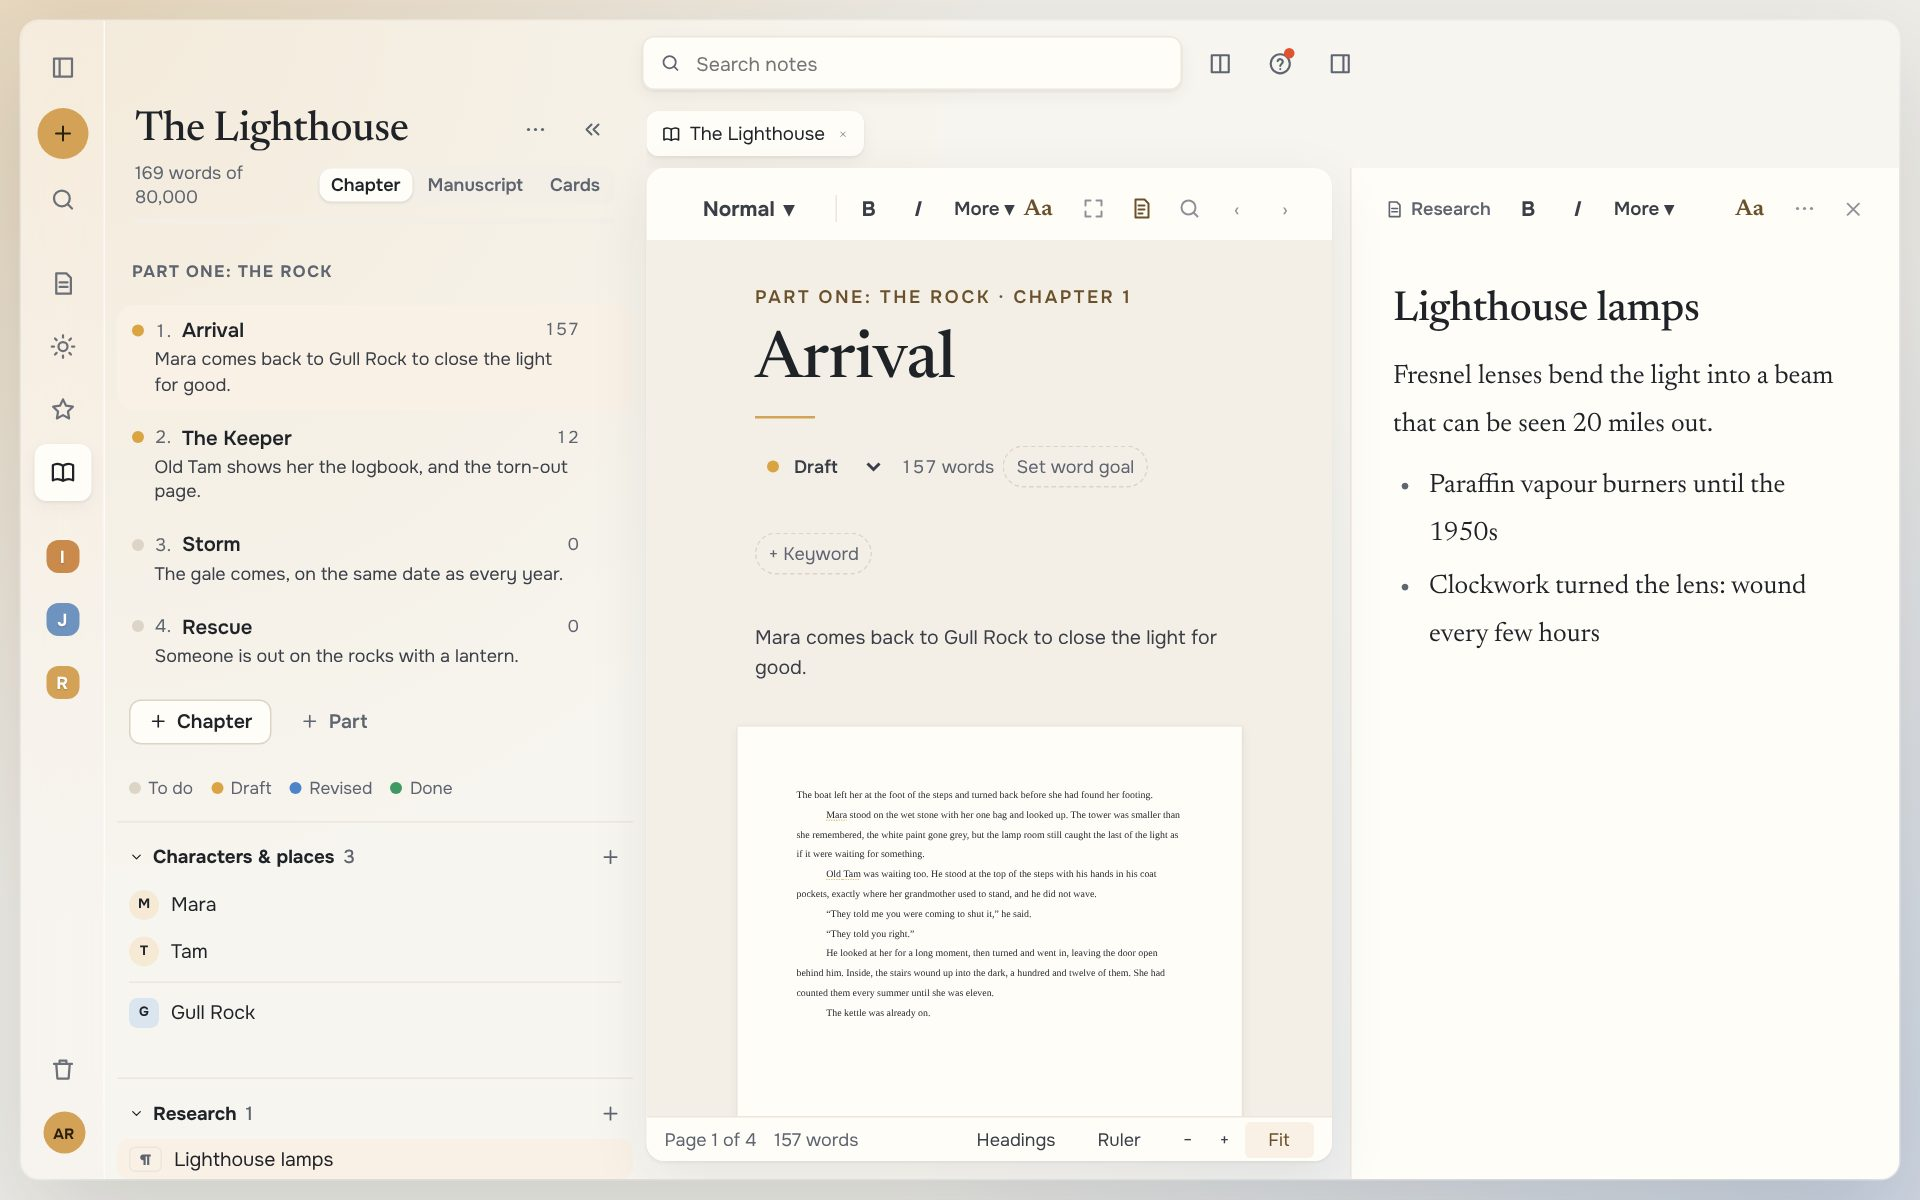
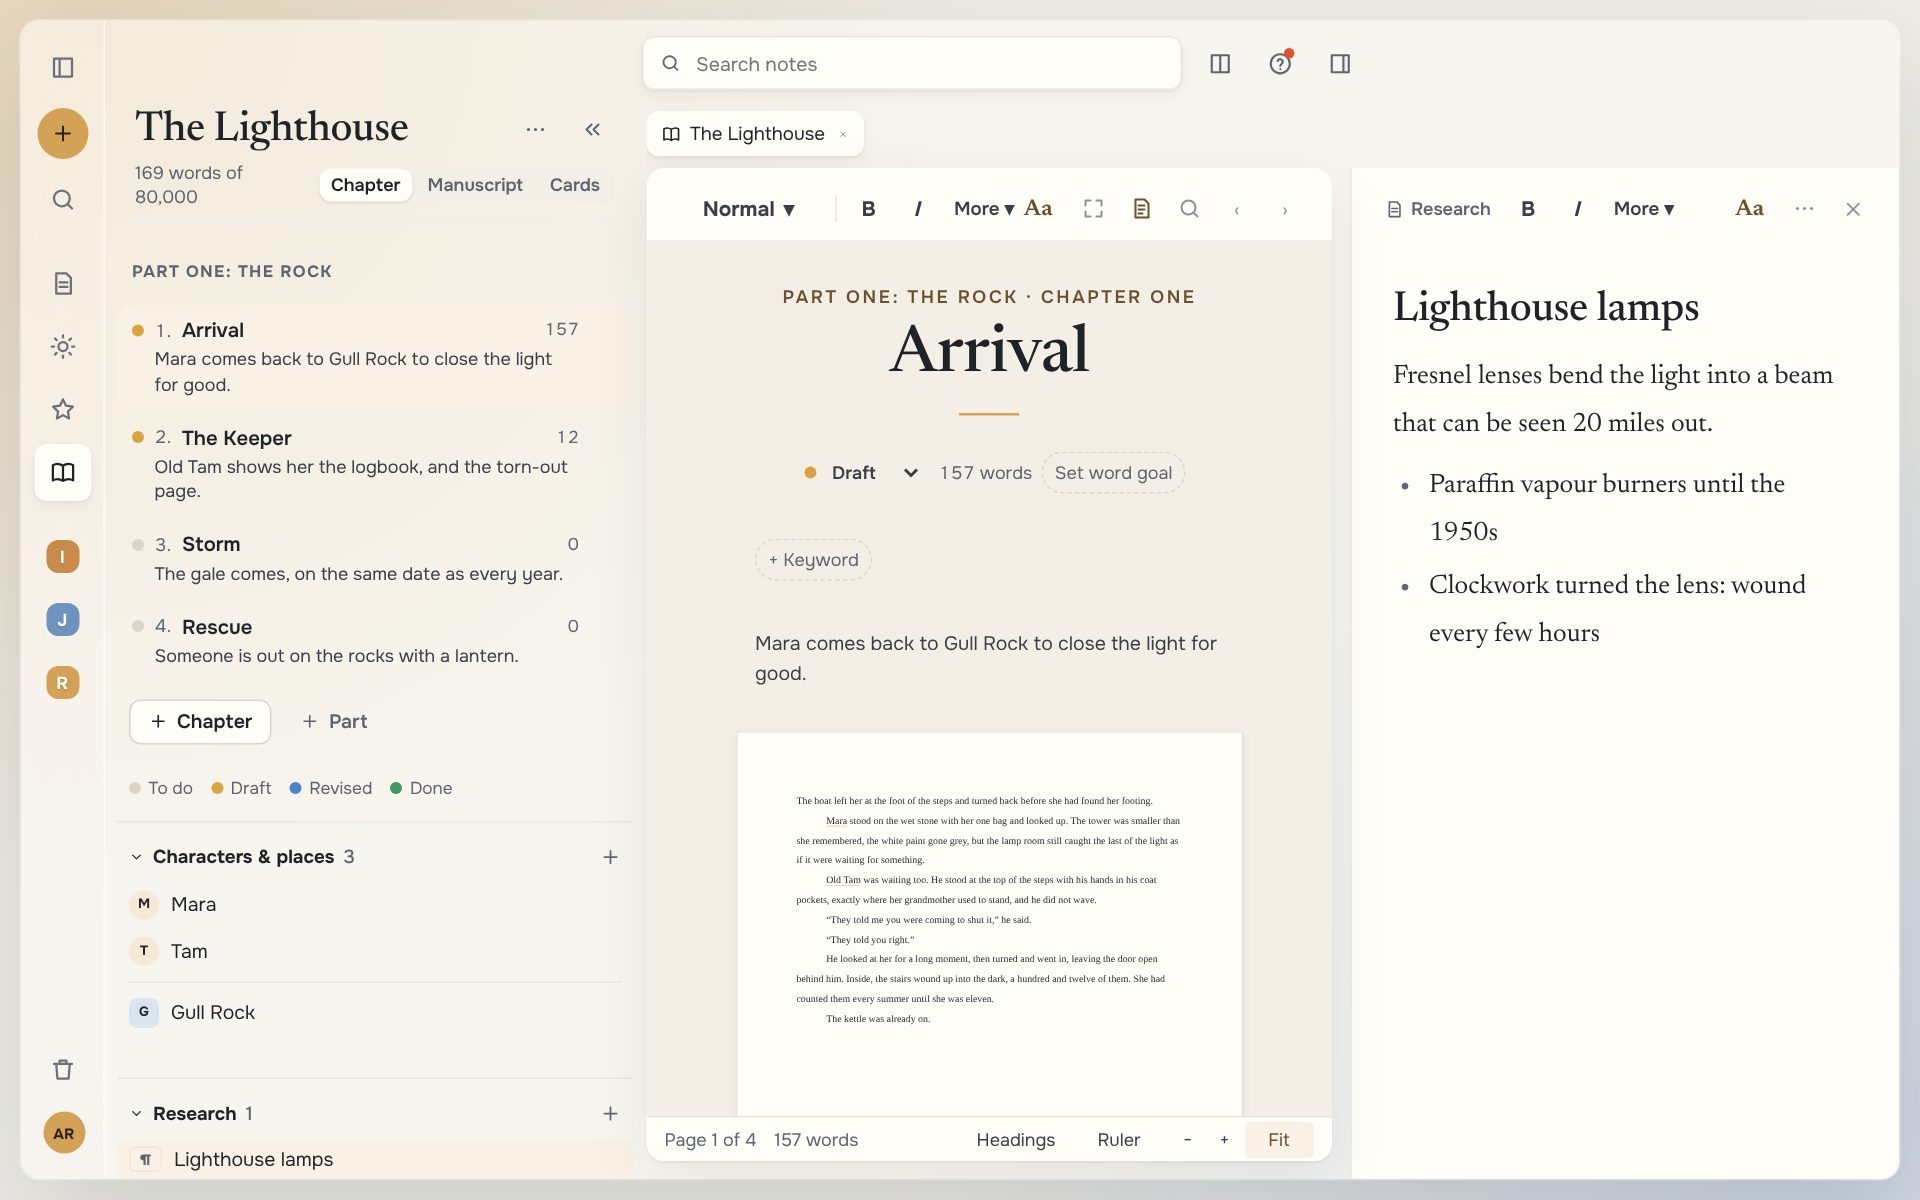
Boards, the reader and chapter openings as the design draws them
Claude-Session: https://claude.ai/code/session_0174Rk97S3NS15G81oxmvmbK

diff --git a/app/src/ui/app.css b/app/src/ui/app.css
@@ -961,6 +961,7 @@ body.pane-resizing iframe { pointer-events: none; }
 .right-tabs button:hover { color: var(--text); background: color-mix(in srgb, var(--text) 6%, transparent); }
 .right-tabs button.on { color: var(--text); background: var(--page); box-shadow: 0 0 0 1px var(--line); font-weight: 600; }
 .right-tabs.calm { flex-wrap: nowrap; }
+.right-tabs.calm button { padding: 4px 6px; }
 .right-more { position: relative; display: inline-flex; }
 .right-more .popover { top: 100%; left: auto; right: 0; min-width: 170px; }
 .right-body { flex: 1; min-height: 0; overflow-y: auto; display: flex; flex-direction: column; }
@@ -2545,3 +2546,33 @@ input.switch:checked { background: var(--accent); }
 input.switch:checked::after { transform: translateX(16px); }
 input.switch:focus-visible { outline: 2px solid var(--accent); outline-offset: 2px; }
 [data-motion='reduce'] input.switch, [data-motion='reduce'] input.switch::after { transition: none; }
+
+/* Quiet Paper boards: white cards with a small label of what they are, titles in the book's font. */
+[data-look='crumpet'] .board-card:not(.tinted) { background: var(--page); border-color: var(--edge, var(--line)); }
+[data-look='crumpet'] .board-card.text .card-text::before,
+[data-look='crumpet'] .board-card.file .card-note::before { display: block; margin-bottom: 4px; font-family: var(--ui-font, inherit); font-size: 11.5px; font-weight: 500; color: var(--muted); }
+[data-look='crumpet'] .board-card.text .card-text::before { content: 'Text'; }
+[data-look='crumpet'] .board-card.file .card-note::before { content: 'Note'; }
+[data-look='crumpet'] .card-line.card-h,
+[data-look='crumpet'] .card-note-title { font-family: var(--title-font); font-weight: 500; font-size: 17px; letter-spacing: -0.01em; line-height: 1.25; margin-bottom: 4px; }
+[data-look='crumpet'] .card-note-title::before { content: none; }
+[data-look='crumpet'] .card-text { font-size: 13.5px; }
+[data-look='crumpet'] .card-note-preview { color: color-mix(in srgb, var(--text) 75%, var(--muted)); }
+[data-look='crumpet'] .board-group { border-style: dashed; border-width: 1px; }
+[data-look='crumpet'] .board-group .group-label { top: -12px; padding: 2px 8px; border-radius: 6px; background: color-mix(in srgb, var(--card) 18%, var(--page)); font-size: 12px; font-weight: 600; }
+.reader-pill { display: flex; align-items: center; gap: 2px; padding: 3px; border: 1px solid color-mix(in srgb, var(--r-ink) 14%, transparent); border-radius: 999px; background: color-mix(in srgb, var(--r-bg) 60%, #fff); box-shadow: 0 1px 2px rgb(0 0 0 / 0.05); }
+.reader-pill button { height: 30px; padding: 0 12px; border: none; border-radius: 999px; background: none; color: var(--r-ink); font: inherit; font-size: 13px; cursor: pointer; }
+.reader-pill button:hover, .reader-pill button.on { background: color-mix(in srgb, var(--r-ink) 8%, transparent); }
+.reader-pill .reader-aloud { background: color-mix(in srgb, var(--accent) 22%, transparent); }
+.reader-pill .reader-aloud:hover { background: color-mix(in srgb, var(--accent) 32%, transparent); }
+.reader-pill button:disabled { opacity: 0.5; cursor: default; }
+.reader-done { font-weight: 600; }
+/* A chapter opens as a book's chapter does: its number in words, the title and a honey line, centred. */
+.chapter-opening { display: flex; flex-direction: column; gap: 10px; }
+[data-look='crumpet'] .chapter-opening { align-items: center; text-align: center; margin-bottom: 6px; }
+[data-look='crumpet'] .chapter-opening .note-title { text-align: center; }
+[data-look='crumpet'] .chapter-opening .chapter-rule { width: 40px; margin: 2px auto 4px; }
+[data-look='crumpet'] .ms-chapter .chapter-kicker { align-self: center; }
+[data-look='crumpet'] .ms-chapter .chapter-rule { align-self: center; width: 40px; }
+[data-look='crumpet'] .ms-chapter .ms-title { text-align: center; }
+[data-look='crumpet'] .chapter-opening + .chapter-meta { justify-content: center; }

diff --git a/app/src/ui/Project.tsx b/app/src/ui/Project.tsx
@@ -7,7 +7,7 @@ import { chapterPages, rememberPages } from '../data/pagecount';
 import { type PageFields, PageToggle, PageView } from './pages';
 import { StylesDialog, useSheetClass, useStyleSources } from './styles-ui';
 import type { Editor } from '@crumpet/editor/editor';
-import { chapterWords, projectChapters, projectGoal, projectWords } from '../data/selectors';
+import { chapterWords, numberInWords, projectChapters, projectGoal, projectWords } from '../data/selectors';
 import { dayKey, wordsToday } from '../data/stats';
 import { pace } from '../data/deadline';
 import type { Chapter, ChapterStatus, Project } from '../data/types';
@@ -591,7 +591,8 @@ export function ChapterPane({ project, chapter, narrow, onBack }: { project: Pro
 
   const header = (
     <>
-      <p className="chapter-kicker">{[part?.title, `Chapter ${at + 1}`].filter(Boolean).join(' · ')}</p>
+      <div className="chapter-opening">
+      <p className="chapter-kicker">{[part?.title, `Chapter ${numberInWords(at + 1)}`].filter(Boolean).join(' · ')}</p>
       <AutoTextarea
         className="note-title"
         aria-label="Chapter title"
@@ -606,6 +607,7 @@ export function ChapterPane({ project, chapter, narrow, onBack }: { project: Pro
         }}
       />
       <span className="chapter-rule" aria-hidden="true" />
+      </div>
       <div className="note-meta chapter-meta">
         <label className={`status-pick ${chapter.status}`}>
           <span className={`status-dot ${chapter.status}`} aria-hidden="true" />
@@ -971,7 +973,7 @@ function ManuscriptChapter({ chapter, number, page, sheetClass, onActive, onEdit
       <CommentCard editor={editor} />
       <ChangeCard editor={editor} />
       <ChangesBar doc={chapter.doc} editor={editor} />
-      <p className="chapter-kicker">Chapter {number}</p>
+      <p className="chapter-kicker">Chapter {numberInWords(number)}</p>
       <AutoTextarea className="note-title ms-title" aria-label={`Title of chapter ${number}`} placeholder="Chapter title" value={chapter.title} onChange={(e) => store.setChapterTitle(chapter.id, e.target.value.replace(/\n/g, ' '))} />
       <span className="chapter-rule" aria-hidden="true" />
       <PageView

diff --git a/app/src/ui/reader.tsx b/app/src/ui/reader.tsx
@@ -136,17 +136,20 @@ function Reader({ ed, onClose }: { ed: Editor; onClose(): void }) {
   return createPortal(
     <div className={`reader paper-${p.paper ?? 'sepia'}${pos.labels ? ' pos-labels' : ''}`} role="dialog" aria-modal="true" aria-label="Immersive reader">
       <header className="reader-bar">
-        <button type="button" className="btn small" aria-pressed={speaking} onClick={readAloud} disabled={!window.speechSynthesis}>
-          {speaking ? '■ Stop' : '▶ Read aloud'}
-        </button>
         <span className="grow" />
-        {(['text', 'grammar', 'reading'] as const).map((k) => (
-          <button key={k} type="button" className={`btn quiet small${panel === k ? ' on' : ''}`} aria-expanded={panel === k} onClick={() => setPanel(panel === k ? null : k)}>
-            {k === 'text' ? 'Text preferences' : k === 'grammar' ? 'Grammar options' : 'Reading preferences'}
+        <div className="reader-pill" role="group" aria-label="Reader tools">
+          {(['text', 'reading', 'grammar'] as const).map((k) => (
+            <button key={k} type="button" className={panel === k ? 'on' : ''} aria-label={k === 'text' ? 'Text preferences' : k === 'grammar' ? 'Grammar options' : 'Reading preferences'} aria-expanded={panel === k} onClick={() => setPanel(panel === k ? null : k)}>
+              {k === 'text' ? 'Aa' : k === 'grammar' ? 'Syllables' : 'Line focus'}
+            </button>
+          ))}
+          <button type="button" className="reader-aloud" aria-pressed={speaking} onClick={readAloud} disabled={!window.speechSynthesis}>
+            {speaking ? '■ Stop' : '▶ Read aloud'}
           </button>
-        ))}
-        <button type="button" className="icon-btn" aria-label="Close the reader" title="Close (Esc)" onClick={onClose}>
-          <IconClose />
+        </div>
+        <span className="grow" />
+        <button type="button" className="btn quiet small reader-done" aria-label="Close the reader" title="Close (Esc)" onClick={onClose}>
+          Done
         </button>
       </header>
       {panel && (

diff --git a/app/src/ui/exportbook.tsx b/app/src/ui/exportbook.tsx
@@ -6,7 +6,7 @@ import { useEffect, useState } from 'react';
 import type { Project } from '../data/types';
 import type { AppState } from '../data/store';
 import { useAppStore } from './hooks';
-import { blockText, chapterWords, projectChapters } from '../data/selectors';
+import { blockText, chapterWords, numberInWords, projectChapters } from '../data/selectors';
 import { DOCX_TYPE, EPUB_TYPE, docxName, download, exportAs, fileName, projectDocx, projectEpub, projectParts } from '../data/wordfiles';
 import { IconClose } from './icons';
 
@@ -24,8 +24,6 @@ const OTHERS: { id: Way; name: string }[] = [
   { id: 'txt', name: 'Plain text' },
 ];
 
-const NUMBERS = ['Zero', 'One', 'Two', 'Three', 'Four', 'Five', 'Six', 'Seven', 'Eight', 'Nine', 'Ten', 'Eleven', 'Twelve', 'Thirteen', 'Fourteen', 'Fifteen', 'Sixteen', 'Seventeen', 'Eighteen', 'Nineteen', 'Twenty'];
-const inWords = (n: number) => NUMBERS[n] ?? String(n);
 
 /** The state as the export sees it: without the chapters marked To do, if asked. */
 function exportState(state: AppState, skipTodo: boolean): AppState {
@@ -125,7 +123,7 @@ export function ExportBook({ project, onClose, onPrint }: { project: Project; on
             {first ? (
               <>
                 <div className="export-page-title">
-                  Chapter {inWords(first.number)}
+                  Chapter {numberInWords(first.number)}
                   <br />
                   {first.chapter.title}
                 </div>

diff --git a/app/src/ui/board.tsx b/app/src/ui/board.tsx
@@ -51,7 +51,7 @@ function CardText({ text }: { text: string }) {
     el.textContent = '';
     for (const line of text.split('\n')) {
       const p = document.createElement('div');
-      p.className = line.startsWith('# ') ? 'card-line card-h' : 'card-line';
+      p.className = /^#{1,6}\s/.test(line) ? 'card-line card-h' : 'card-line';
       fillCell(p, line.replace(/^#+\s+/, ''));
       if (!line) p.innerHTML = '&nbsp;';
       el.appendChild(p);
@@ -352,7 +352,7 @@ export function BoardView({ note }: { note: Note }) {
               <div
                 key={c.id}
                 data-card={c.id}
-                className={`board-card ${c.type}${on ? ' on' : ''}${editing === c.id ? ' editing' : ''}`}
+                className={`board-card ${c.type}${c.color ? ' tinted' : ''}${on ? ' on' : ''}${editing === c.id ? ' editing' : ''}`}
                 style={{ left: c.x, top: c.y, width: c.width, height: c.height, ...(c.color ? { '--card': CARD_COLORS[c.color] } : {}) } as React.CSSProperties}
                 onPointerDown={(e) => startMove(e, c)}
                 onDoubleClick={(e) => {

diff --git a/app/src/data/whatsnew.ts b/app/src/data/whatsnew.ts
@@ -19,6 +19,8 @@ export const WHATS_NEW: WhatsNew[] = [
       'Ctrl/⌘+K opens Find anything, the window that finds notes, chapters and headings as you type; Search everything at the bottom lists every match, with filters.',
       'The right sidebar shows three tabs (Outline, Review and Links; or In this chapter, Outline and Review in a book), with the rest under More ▾.',
       'Settings has its sections down the left; Appearance shows four themes (More themes has the rest), and its Calm settings are on/off switches.',
+      'A chapter opens centred, like a printed book: Chapter One, the title and a short honey line.',
+      'Board cards are white with a small Text or Note label and titles in the book’s font; the Immersive reader’s tools sit in one pill at the top (Aa, Line focus, Syllables, Read aloud) with Done beside.',
     ],
   },
   {

diff --git a/app/src/data/selectors.ts b/app/src/data/selectors.ts
@@ -348,3 +348,12 @@ export function matchingChapters(state: Pick<AppState, 'query' | 'projects' | 'c
   }
   return out;
 }
+
+const NUMBER_WORDS = ['Zero', 'One', 'Two', 'Three', 'Four', 'Five', 'Six', 'Seven', 'Eight', 'Nine', 'Ten', 'Eleven', 'Twelve', 'Thirteen', 'Fourteen', 'Fifteen', 'Sixteen', 'Seventeen', 'Eighteen', 'Nineteen', 'Twenty'];
+const TENS = ['', '', 'Twenty', 'Thirty', 'Forty', 'Fifty', 'Sixty', 'Seventy', 'Eighty', 'Ninety'];
+/** A chapter's number as a book writes it: One, Twelve, Forty-Two (figures from 100). */
+export function numberInWords(n: number): string {
+  if (n >= 0 && n <= 20) return NUMBER_WORDS[n];
+  if (n > 20 && n < 100) return TENS[Math.floor(n / 10)] + (n % 10 ? `-${NUMBER_WORDS[n % 10].toLowerCase()}` : '');
+  return String(n);
+}

diff --git a/app/tests/e2e/app.spec.ts b/app/tests/e2e/app.spec.ts
@@ -647,7 +647,7 @@ test('projects: chapters and parts, status, synopsis, goals, reordering and the 
   await expect(page.getByRole('button', { name: 'Move up' })).toBeDisabled();
   await page.keyboard.press('Escape');
   await outline.locator('.outline-open', { hasText: 'The Keeper' }).click();
-  await expect(page.locator('.chapter-kicker')).toHaveText('Part One · Chapter 1');
+  await expect(page.locator('.chapter-kicker')).toHaveText('Part One · Chapter One');
 
   // The whole manuscript: both chapters, editable in place.
   await outline.getByRole('button', { name: 'Manuscript' }).click();
